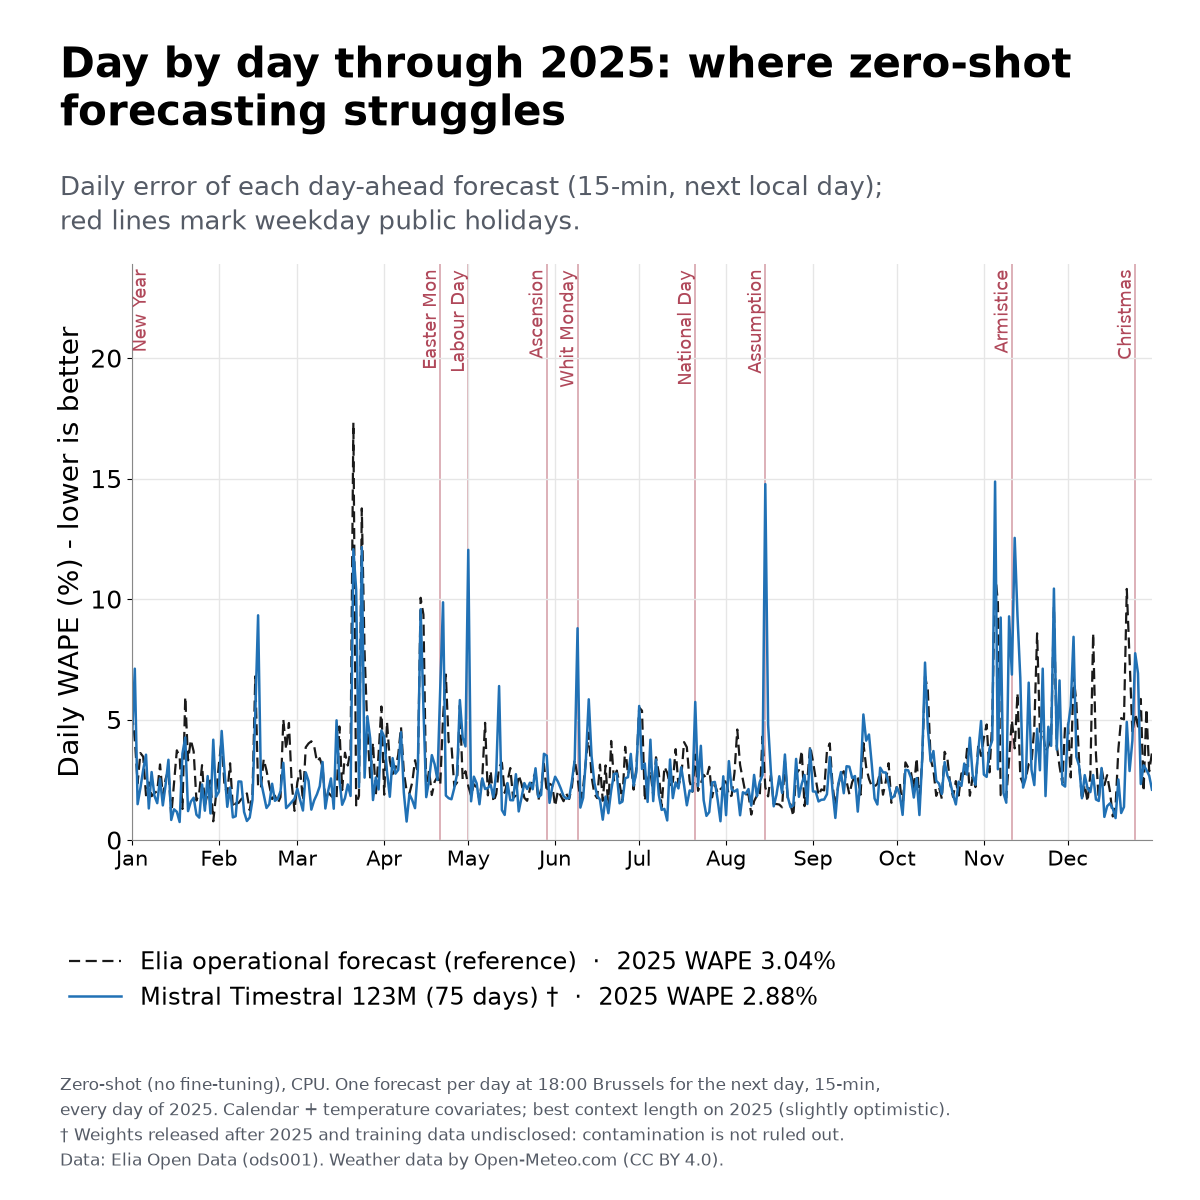
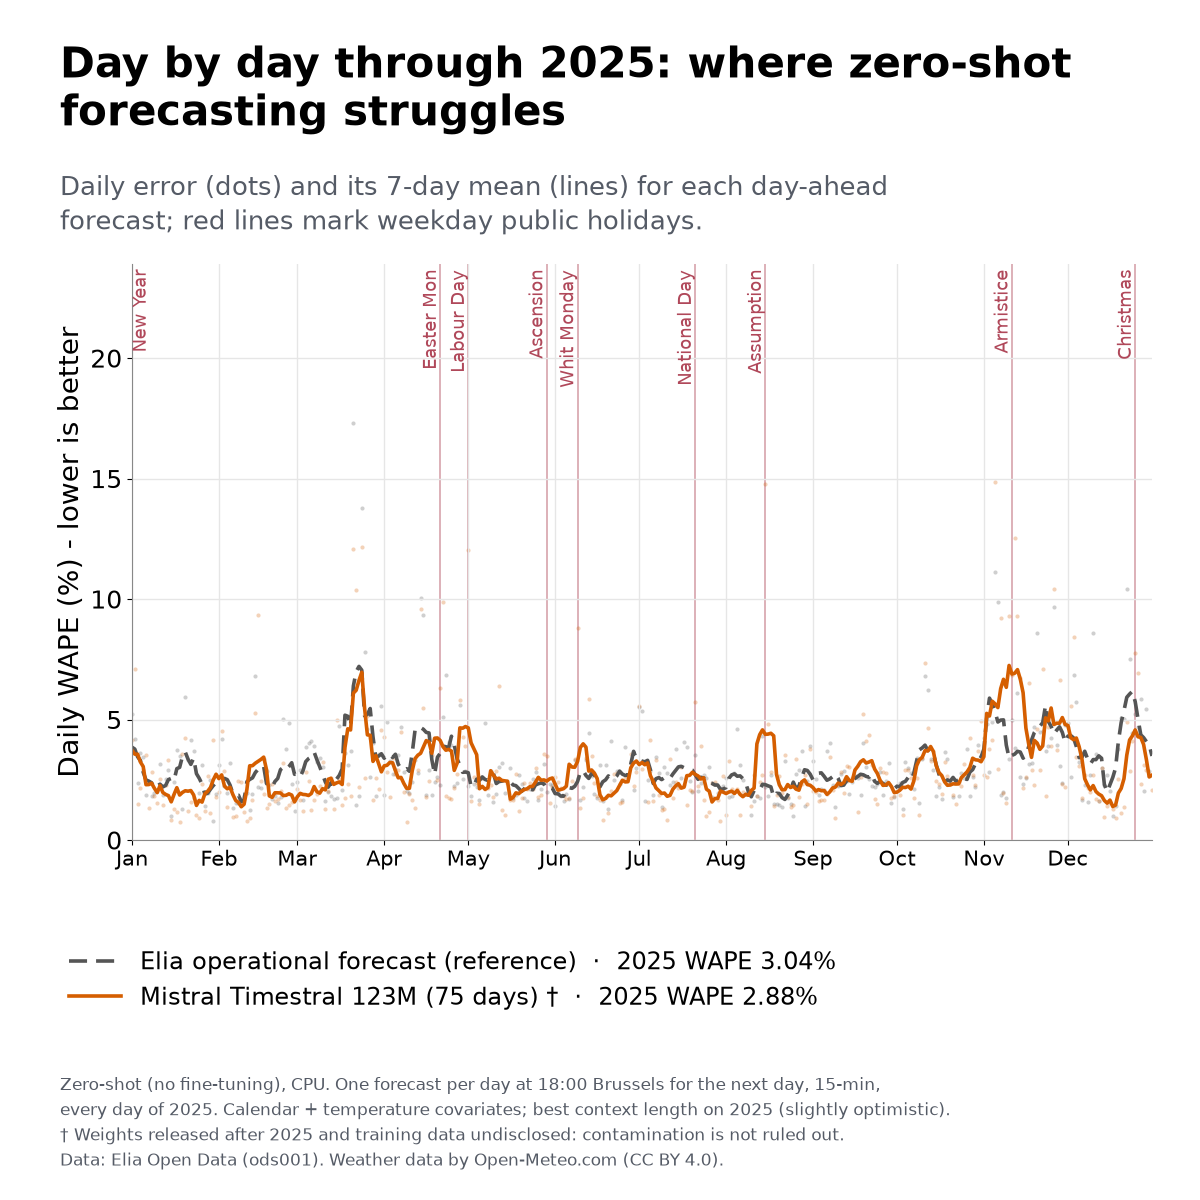
Images: new colours, 7-day mean in the year view

diff --git a/scripts/plot_linkedin.py b/scripts/plot_linkedin.py
@@ -26,7 +26,7 @@ from tsbench.config import ROOT
 DASH = ROOT / "docs" / "dashboard"
 OUT = ROOT / "docs" / "img"
 MODEL, REF = "timestral-123m", "elia_reference"
-ACTUAL_COLOR, MUTED, HOLIDAY, NEAR_BLACK = "#8c8c8c", "#555b66", "#b0485a", "#1a1a1a"
+ACTUAL_COLOR, MUTED, HOLIDAY = "#000000", "#555b66", "#b0485a"
 SHORT = {"New Year's Day": "New Year", "Easter Monday": "Easter Mon", "Labor Day": "Labour Day",
          "Ascension Day": "Ascension", "Pentecost Monday": "Whit Monday", "National Day": "National Day",
          "Assumption Day": "Assumption", "Armistice Day": "Armistice", "Christmas Day": "Christmas"}
@@ -42,7 +42,7 @@ plt.rcParams.update({"font.size": 20, "axes.titlesize": 26, "axes.labelsize": 20
 
 
 def color(series: dict) -> str:
-    return NEAR_BLACK if series["color"].lower() == "#000000" else series["color"]
+    return series["color"]  # card colour (Okabe-Ito for the dashboard series)
 
 
 def style(series: dict) -> str:
@@ -85,9 +85,9 @@ def week_png(data, daily, local) -> None:
             ax.text(pd.Timestamp(d) + pd.Timedelta(hours=12), 0.985, f"{SHORT.get(name, name)}\n(public holiday)",
                     transform=ax.get_xaxis_transform(), ha="center", va="top", fontsize=16, color=HOLIDAY)
     ax.fill_between(t, p10, p90, color=color(s), alpha=0.18, lw=0, label=f"{s['label']}: P10-P90 band")
-    ax.plot(t, a, color=ACTUAL_COLOR, lw=4.5, label="Actual load", solid_capstyle="round")
-    ax.plot(t, ref, color=color(r), lw=2.2, ls=style(r), label=f"{r['label']}  ·  week WAPE {wape(a, ref):.2f}%")
-    ax.plot(t, p50, color=color(s), lw=2.4, ls=style(s), label=f"{s['label']}  ·  week WAPE {wape(a, p50):.2f}%")
+    ax.plot(t, a, color=ACTUAL_COLOR, lw=3.6, label="Actual load", solid_capstyle="round")
+    ax.plot(t, ref, color=color(r), lw=2.6, ls=style(r), label=f"{r['label']}  ·  week WAPE {wape(a, ref):.2f}%")
+    ax.plot(t, p50, color=color(s), lw=2.6, ls=style(s), label=f"{s['label']}  ·  week WAPE {wape(a, p50):.2f}%")
     ax.set_xlim(lo, hi)
     ax.xaxis.set_major_locator(mdates.DayLocator())  # gridlines at midnight, labels centred on each day
     ax.xaxis.set_major_formatter(matplotlib.ticker.NullFormatter())
@@ -121,9 +121,12 @@ def year_png(data, daily) -> None:
             first = d == dates[0]  # 1 Jan sits on the left edge: label inside the axes
             ax.text(d, 0.99, SHORT.get(name, name), transform=ax.get_xaxis_transform(), rotation=90,
                     ha="left" if first else "right", va="top", fontsize=13, color=HOLIDAY)
-    for k, lw in ((REF, 1.6), (MODEL, 1.8)):
+    for k in (REF, MODEL):  # faint daily values behind a centred 7-day mean (same as the dashboard)
         sr = data["series"][k]
-        ax.plot(dates, daily["wape"][k], color=color(sr), lw=lw, ls=style(sr), label=f"{sr['label']}  ·  2025 WAPE {full[k]:.2f}%")
+        day = pd.Series(daily["wape"][k], index=dates)
+        ax.scatter(dates, day, s=9, color=color(sr), alpha=0.28, lw=0, zorder=1)
+        ax.plot(dates, day.rolling(7, center=True, min_periods=1).mean(), color=color(sr), lw=2.6, ls=style(sr),
+                zorder=2, label=f"{sr['label']}  ·  2025 WAPE {full[k]:.2f}%")
     ax.set_xlim(pd.Timestamp("2025-01-01"), pd.Timestamp("2025-12-31"))
     ax.xaxis.set_major_locator(mdates.MonthLocator())
     ax.xaxis.set_major_formatter(mdates.DateFormatter("%b"))
@@ -134,7 +137,7 @@ def year_png(data, daily) -> None:
     ax.set_ylabel("Daily WAPE (%) - lower is better")
     fig.legend(loc="upper left", bbox_to_anchor=(0.04, 0.225), frameon=False, handlelength=2.2, fontsize=17)
     frame(fig, "Day by day through 2025: where zero-shot\nforecasting struggles",
-          "Daily error of each day-ahead forecast (15-min, next local day);\nred lines mark weekday public holidays.")
+          "Daily error (dots) and its 7-day mean (lines) for each day-ahead\nforecast; red lines mark weekday public holidays.")
     fig.savefig(OUT / "linkedin_year.png", facecolor="white")
     plt.close(fig)
 
